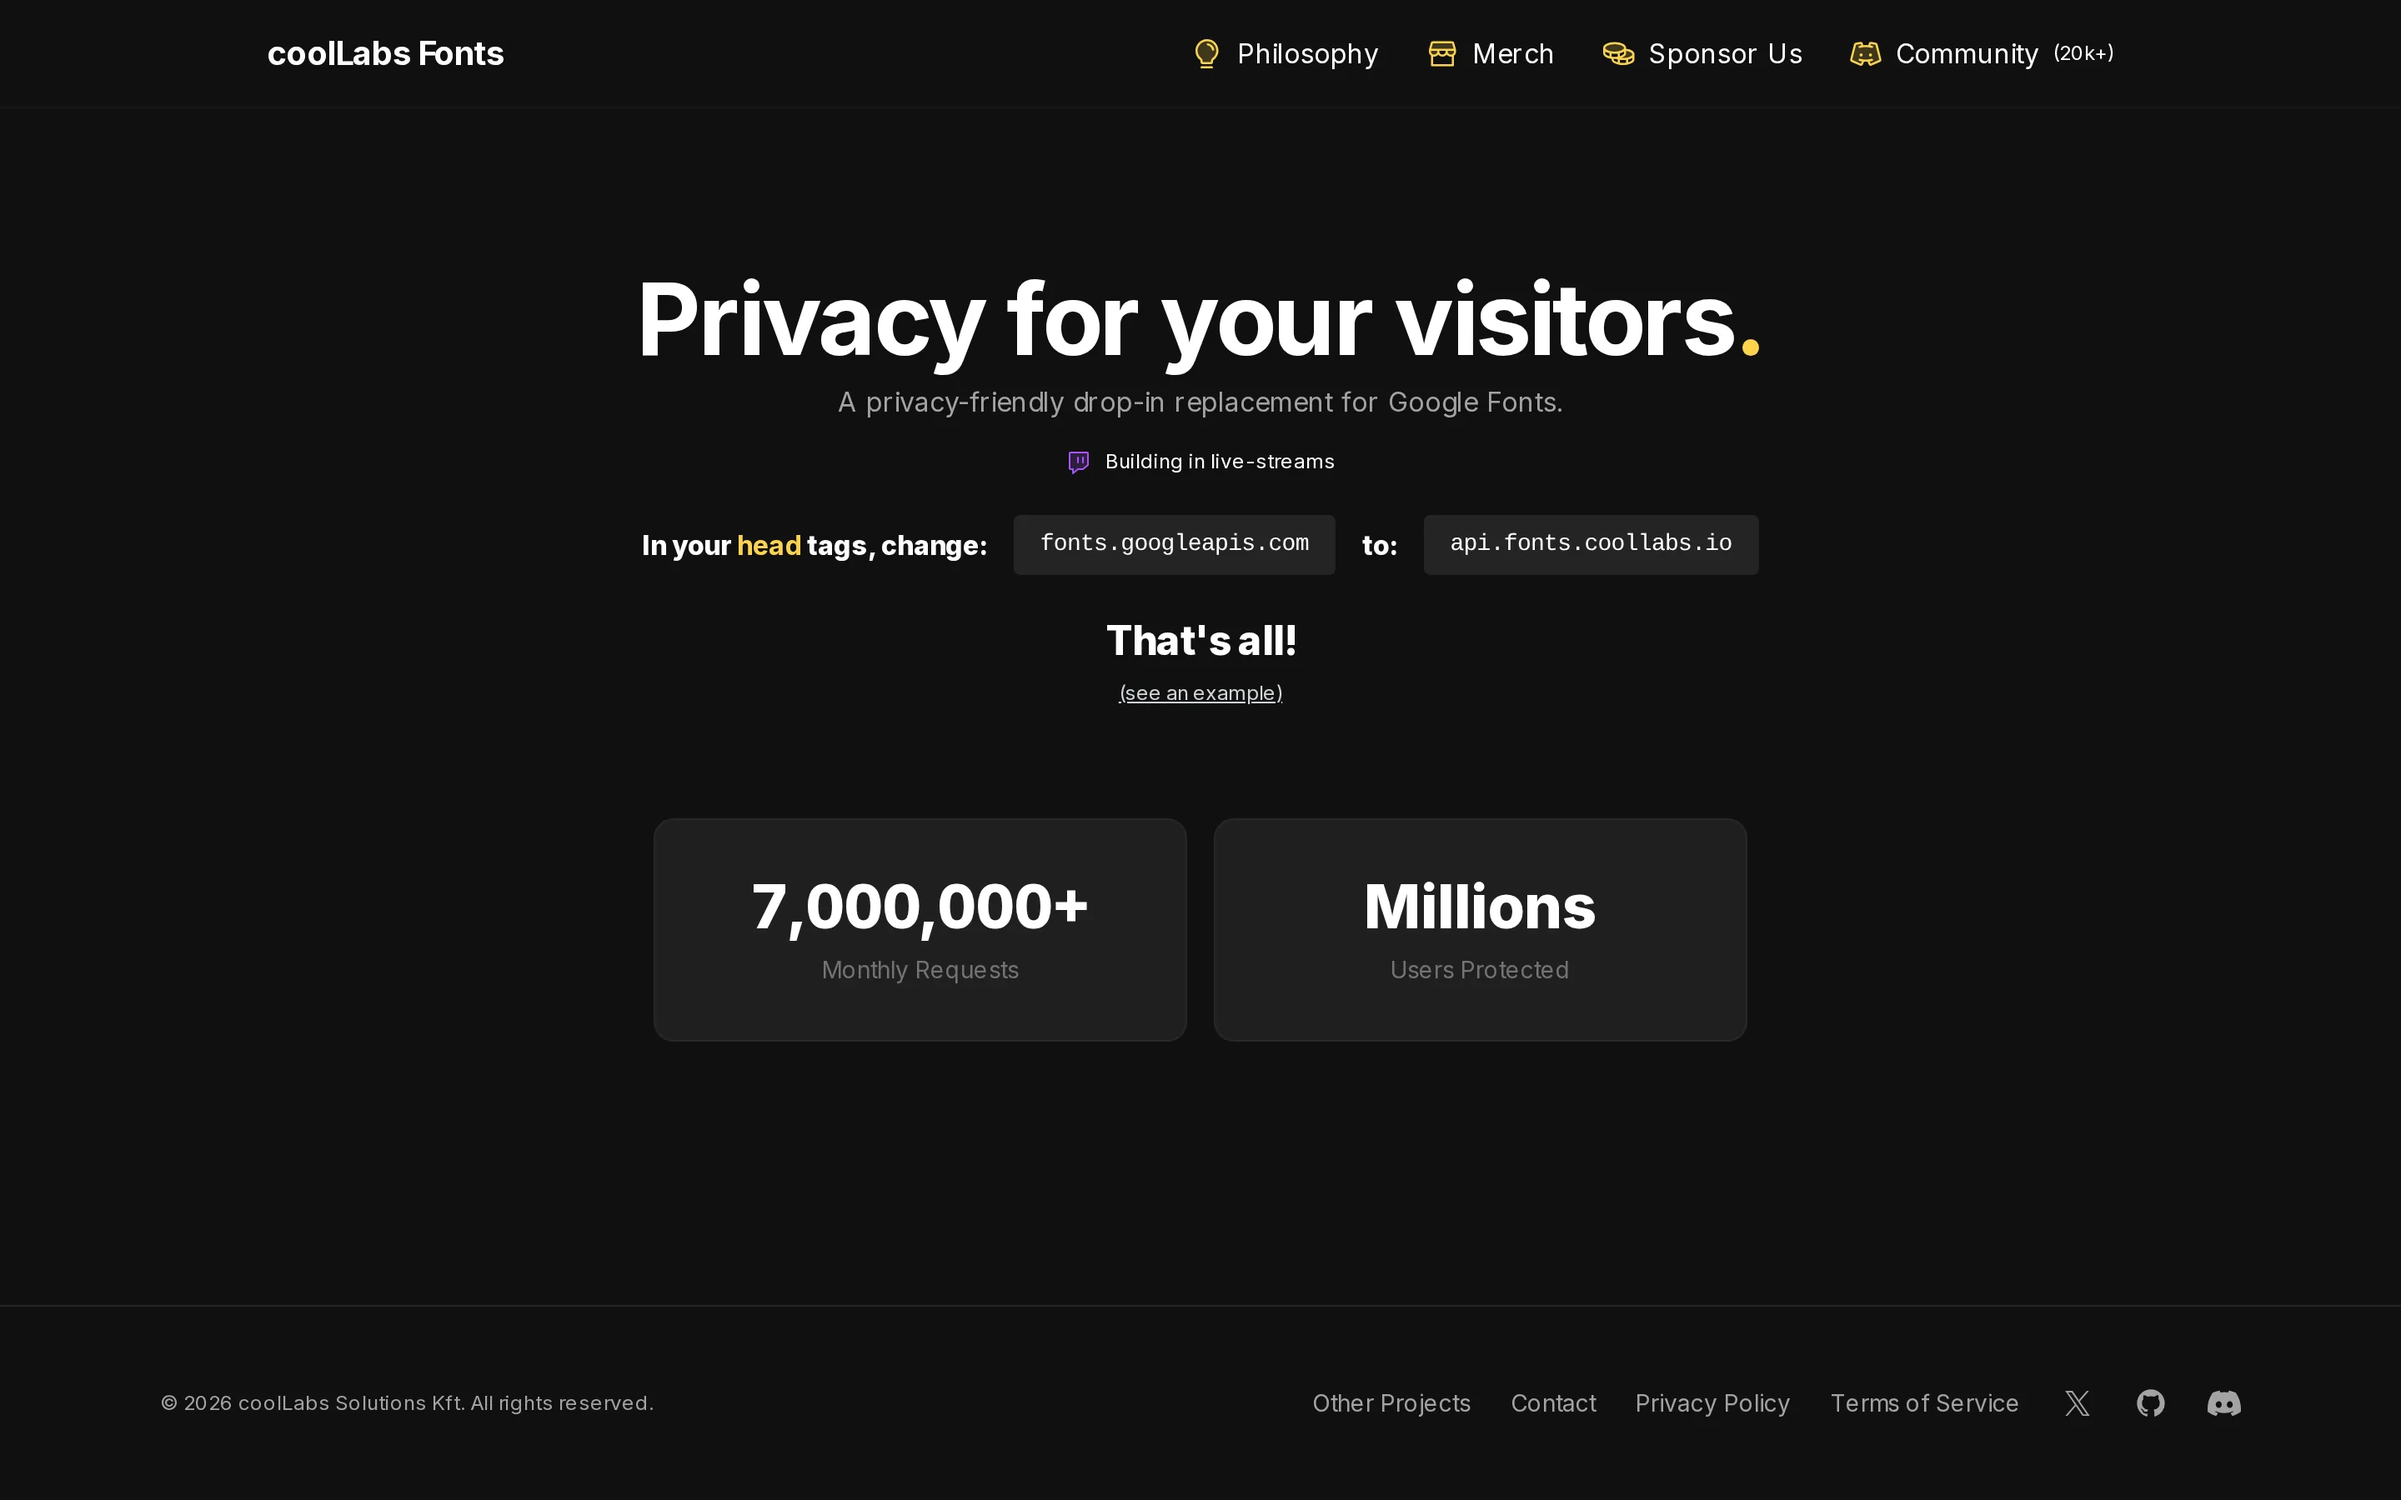
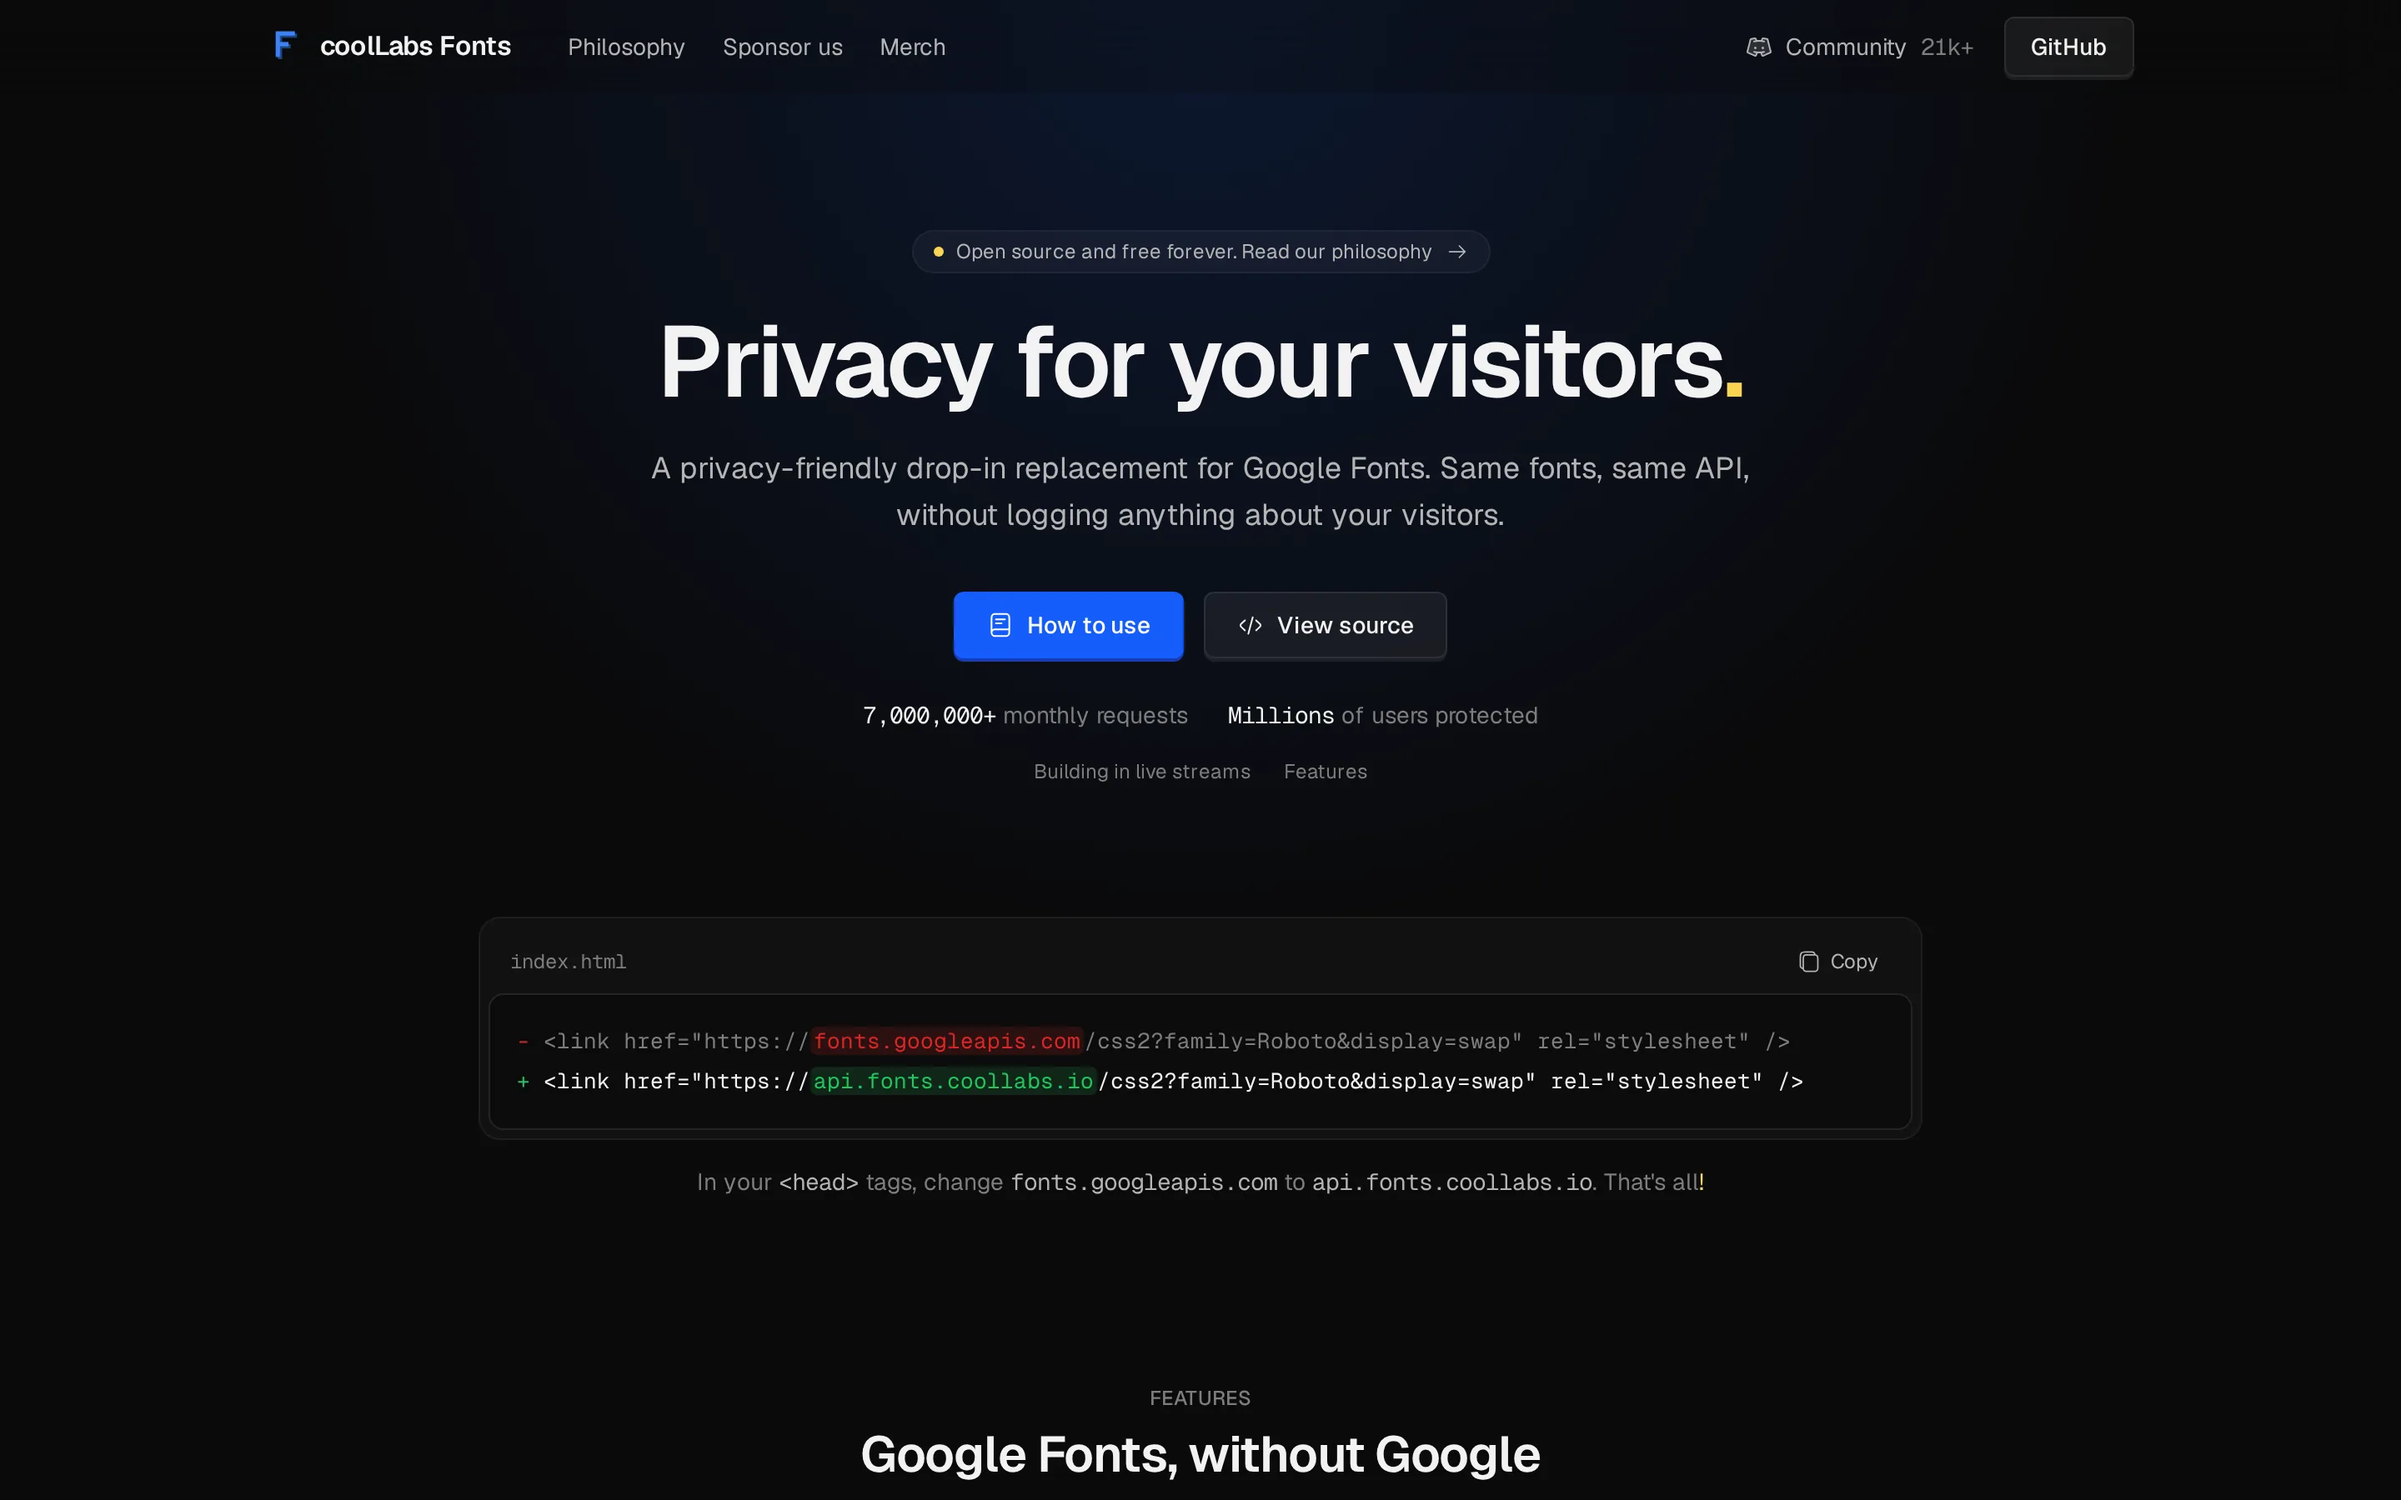
docs(projects): refresh coolLabs Fonts screenshot and description
Replace the Fonts screenshot and reword its caption to stress that the
same fonts and API are served without logging visitor data. Update the
alt text to describe the code diff now shown in the image.

diff --git a/src/data/projects.js b/src/data/projects.js
@@ -99,8 +99,8 @@ export const more = [
       {
         src: "/images/screenshots/fonts.webp",
         title: "Privacy for your visitors",
-        text: "Change one domain in your head tags and your fonts load without tracking.",
-        alt: "coolLabs Fonts homepage showing how to replace fonts.googleapis.com with api.fonts.coollabs.io",
+        text: "Same fonts, same API, without logging anything about your visitors. Change one domain in your head tags.",
+        alt: "coolLabs Fonts homepage with a code diff that replaces fonts.googleapis.com with api.fonts.coollabs.io",
       },
     ],
   },
